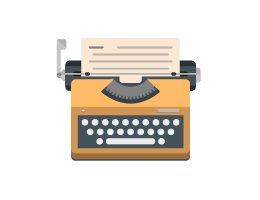
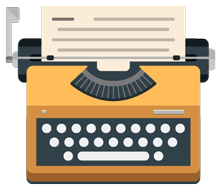
Added new image in Contact

diff --git a/static/css/contact.css b/static/css/contact.css
@@ -12,8 +12,6 @@ h1 {
 }
 
 #img-contact {
-    width: 300px;
-    height: 300px;
     margin-top: 1em;
 }
 
